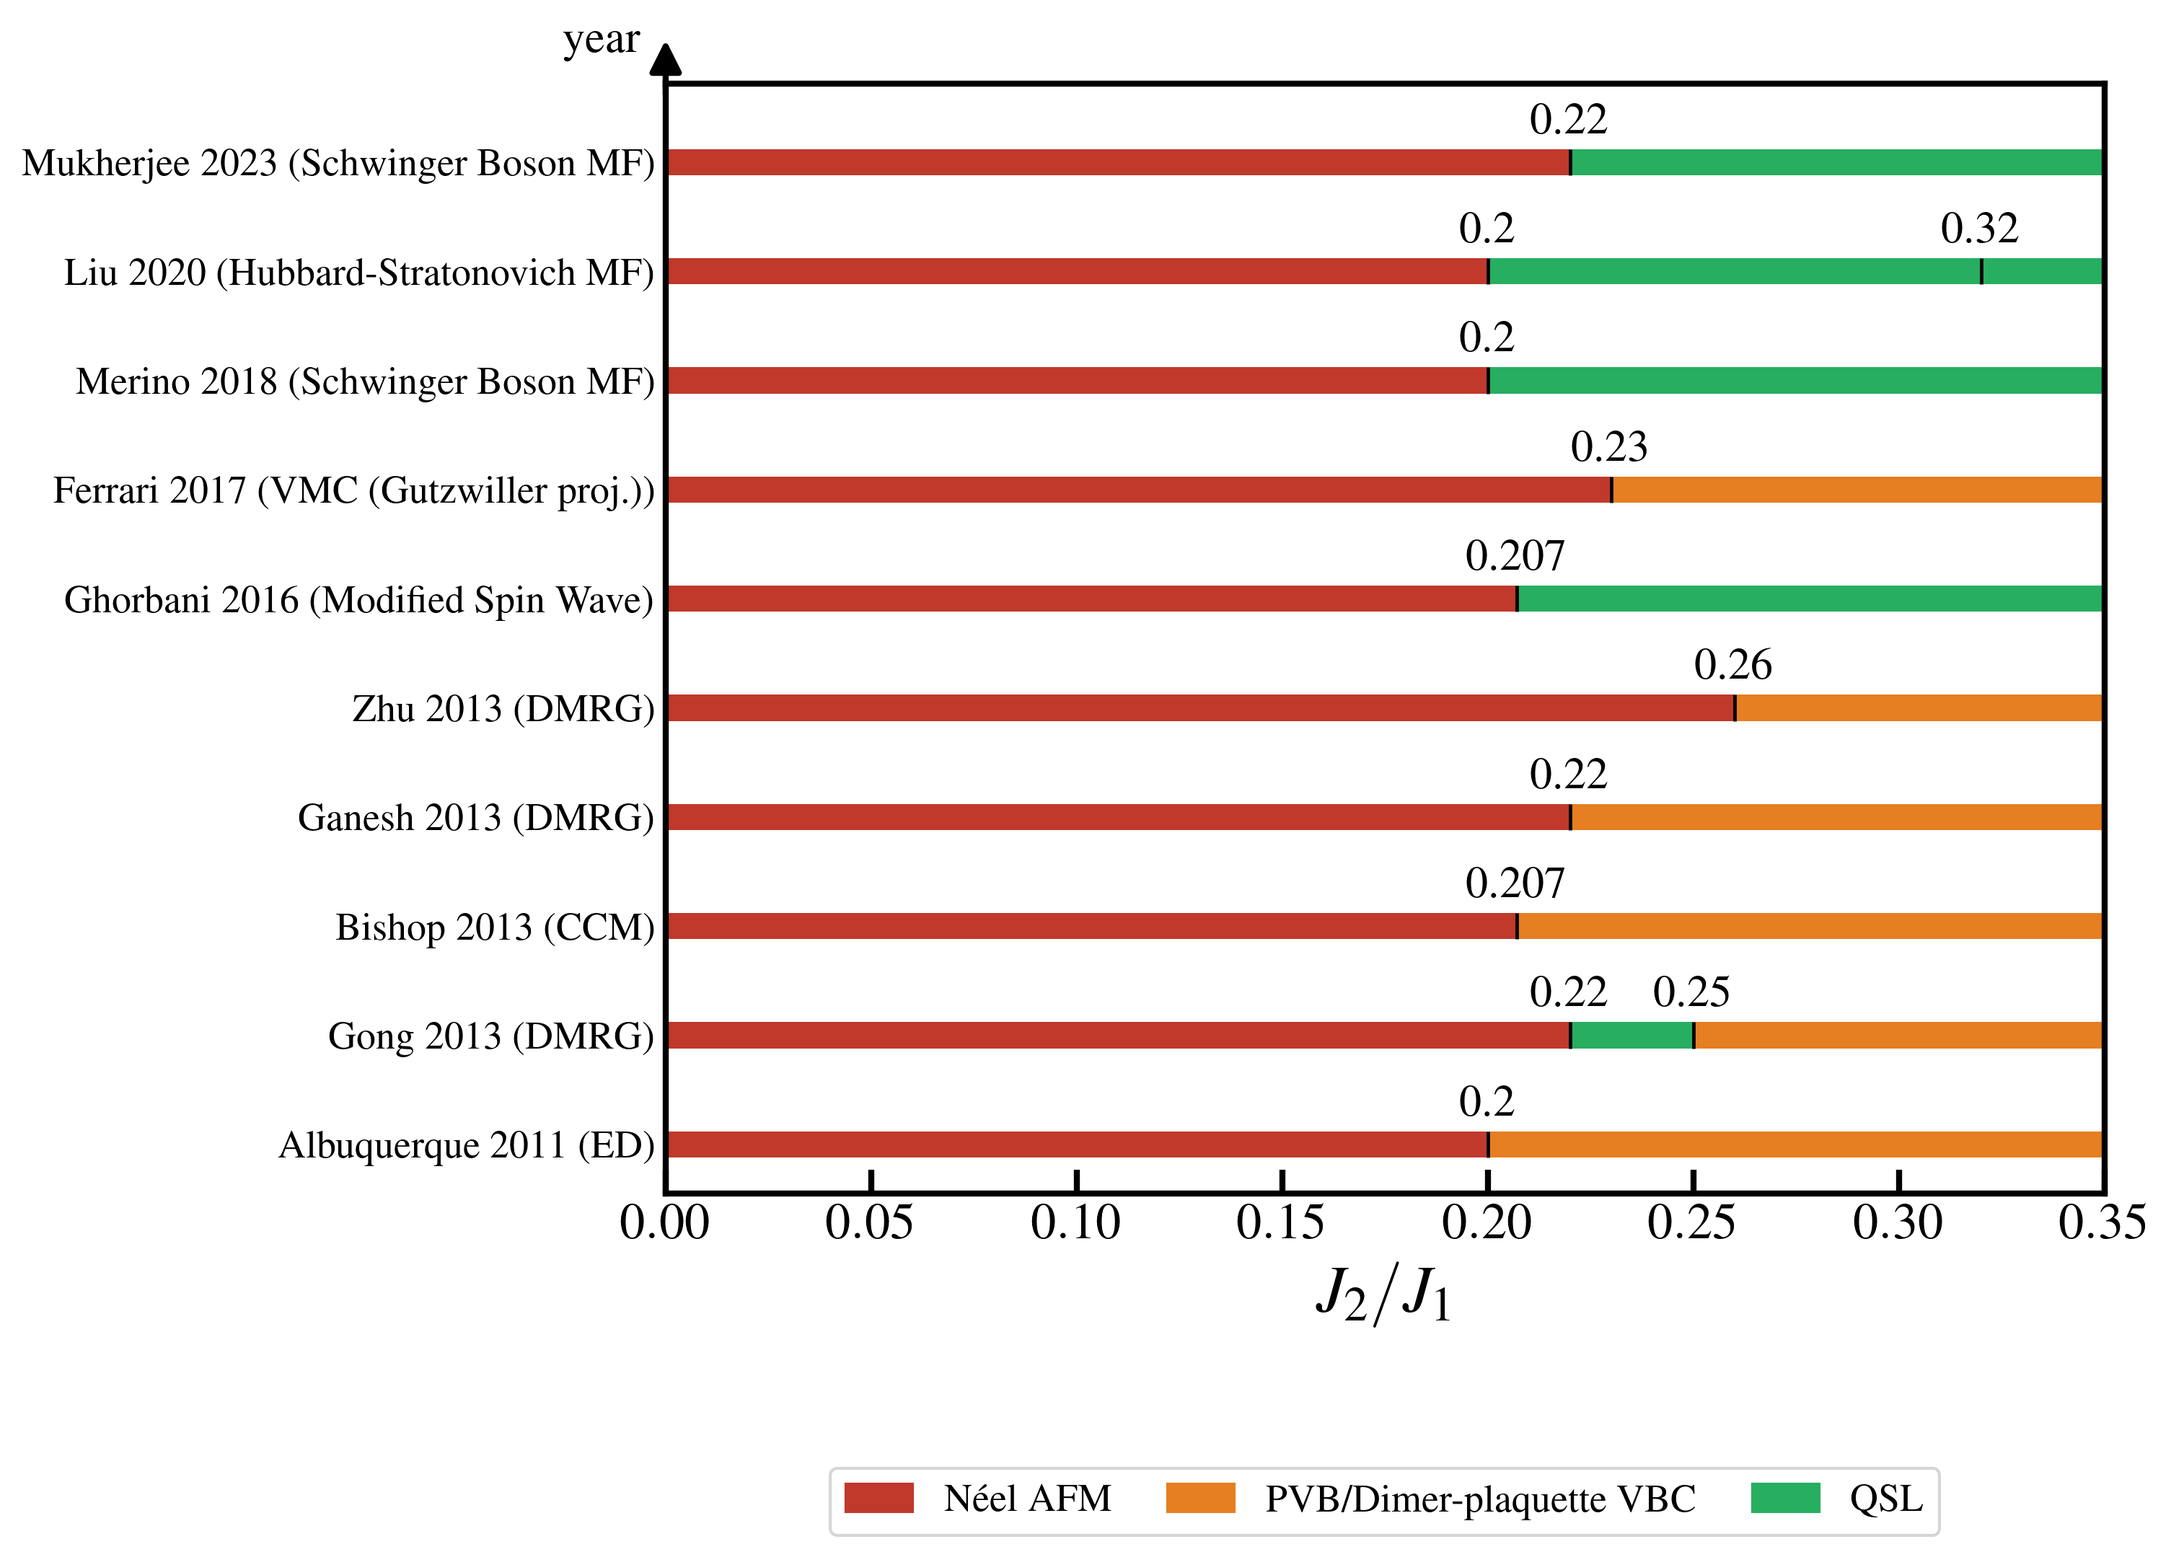
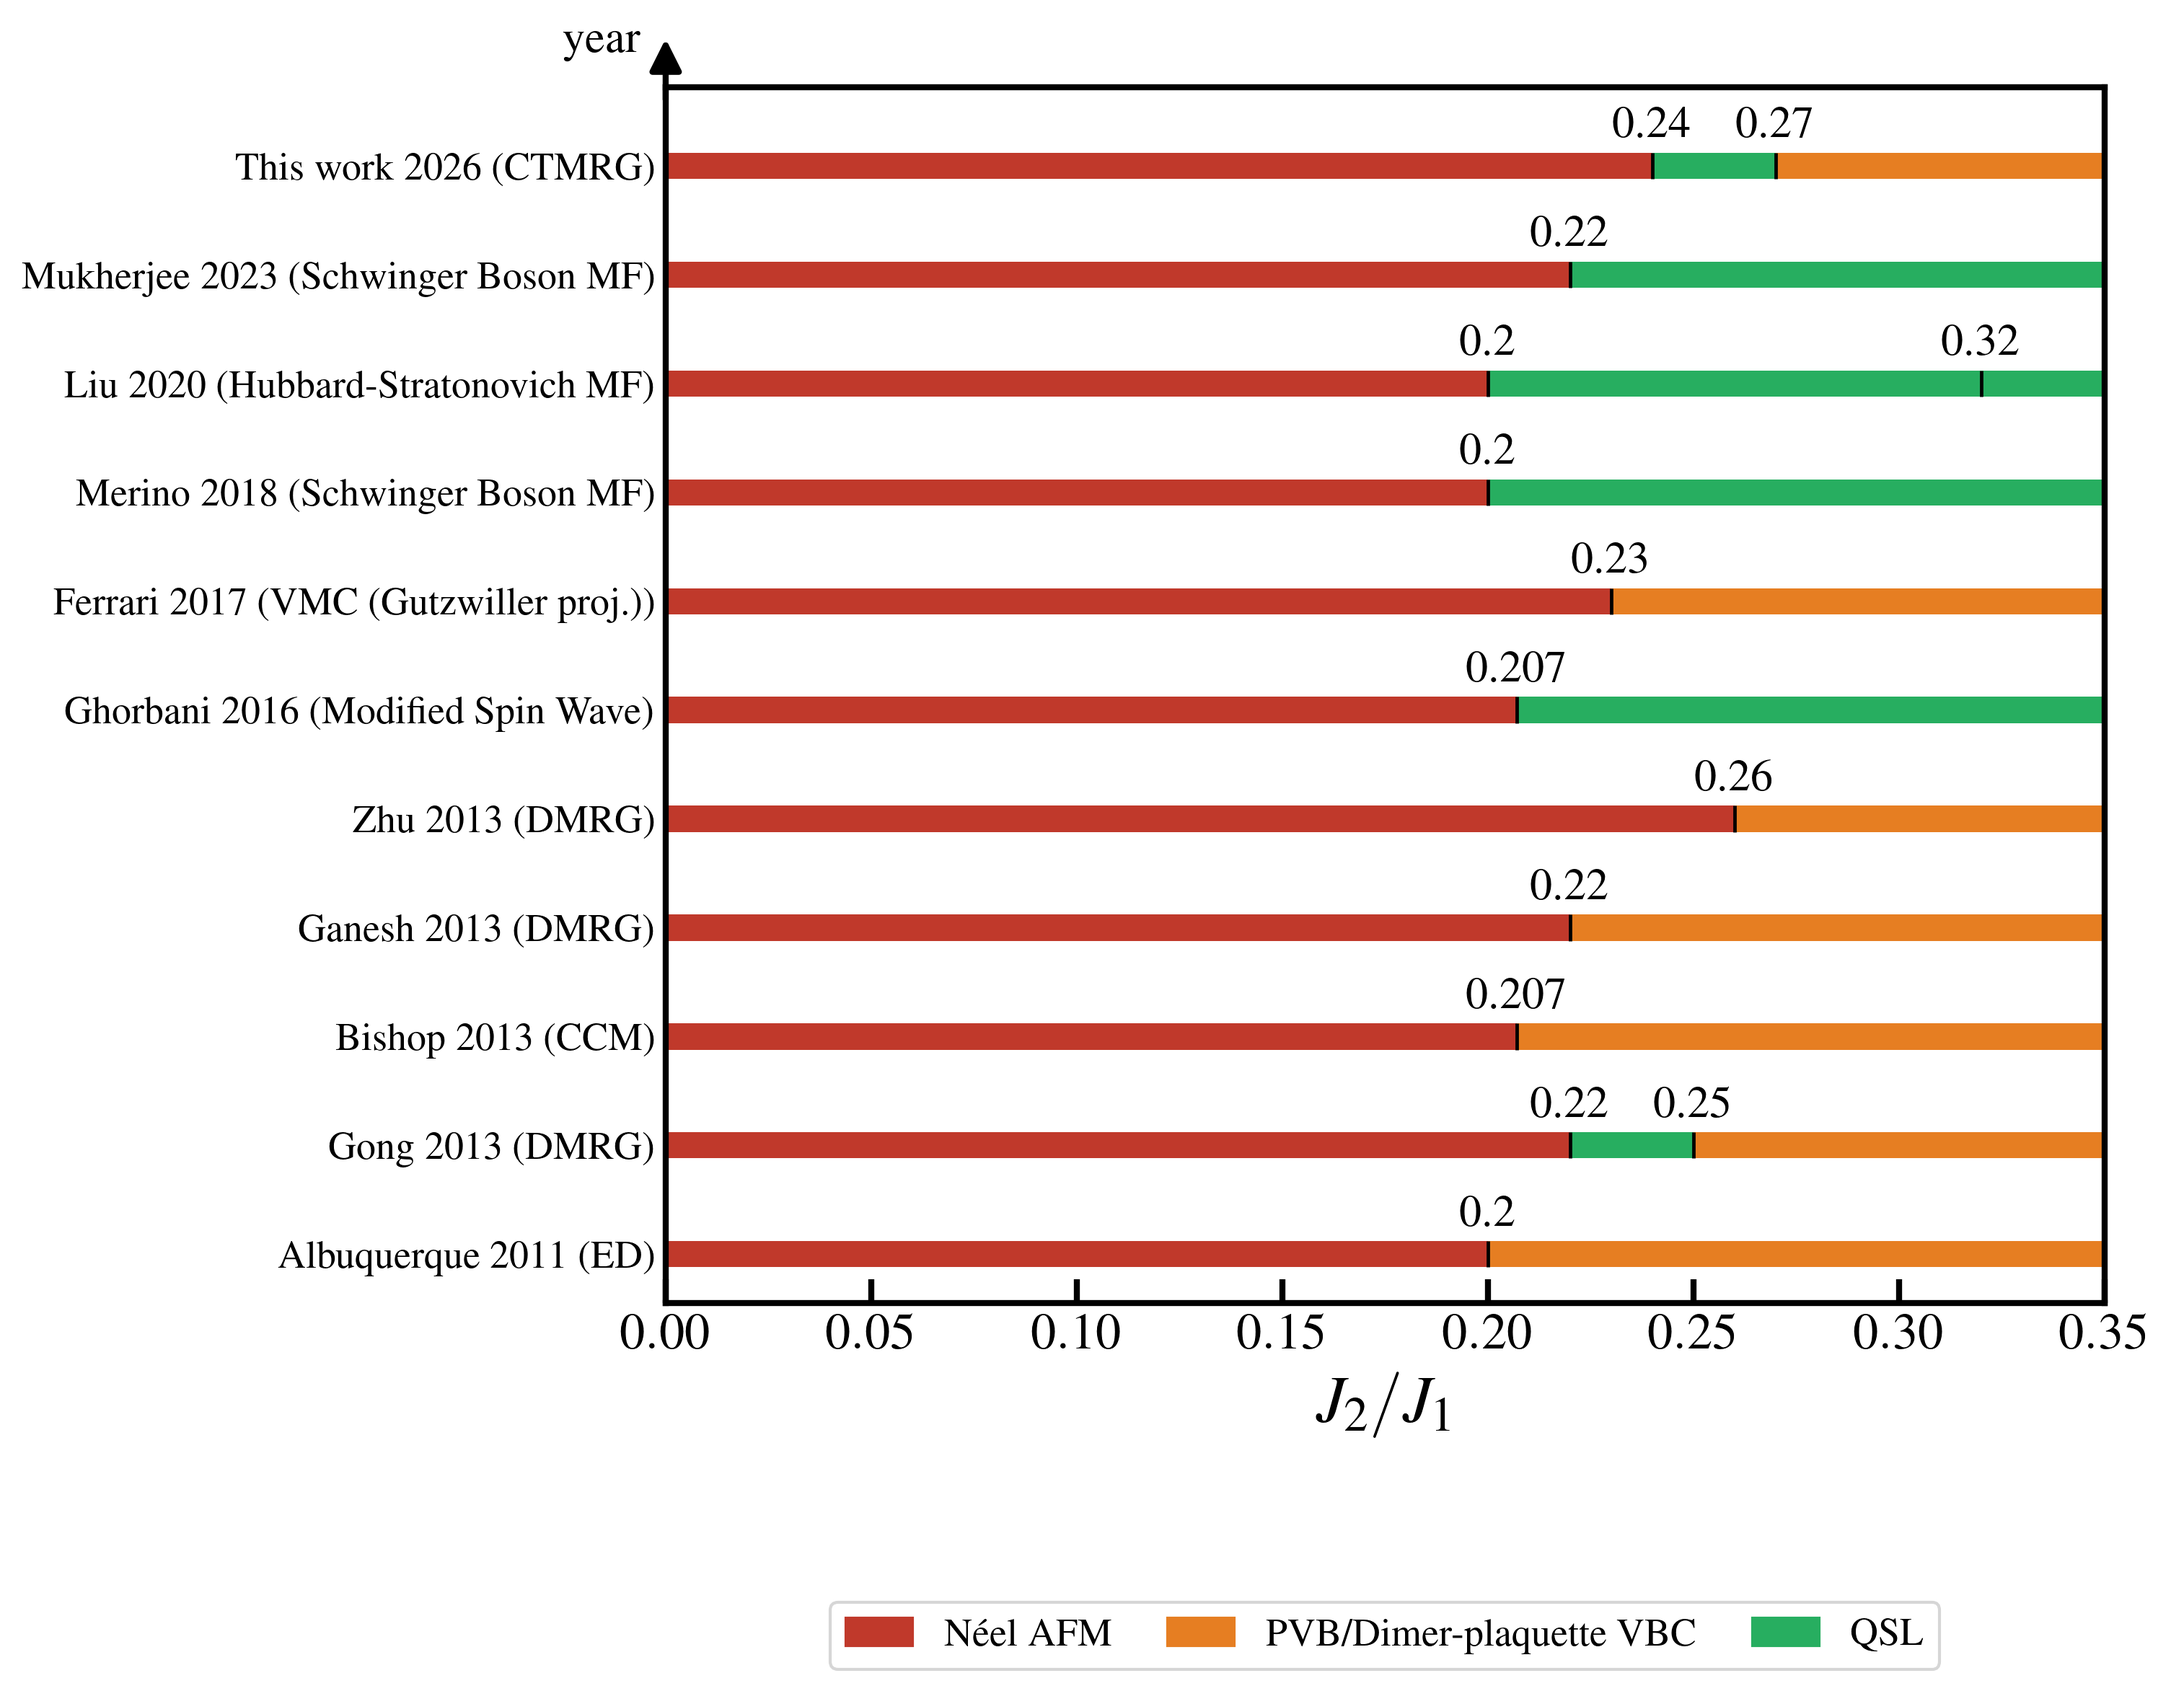
Adding This Work to figure.

Changed region(s): [[0.0, 0.031, 0.9993, 0.8069], [0.3748, 0.931, 0.8744, 0.9931], [0.2498, 0.0, 0.2811, 0.031]]

diff --git a/visual_elements/figs/figs0906/plot_J1J2_phase_diagrams.py b/visual_elements/figs/figs0906/plot_J1J2_phase_diagrams.py
@@ -72,6 +72,10 @@ STUDIES = [
         (0.000, 0.220, "Neel"), (0.220, 0.370, "QSL"),
         (0.370, 0.400, "Columnar"), (0.400, 0.500, "Stripe"),
     ]),
+    dict(label="This work 2026", year=2026, method="CTMRG", phases=[
+        (0.000, 0.240, "Neel"), (0.240, 0.270, "QSL"),
+        (0.270, 0.500, "PVB"),
+    ]),
 ]
 
 REMOVED_FROM_VARIATIONAL = {
